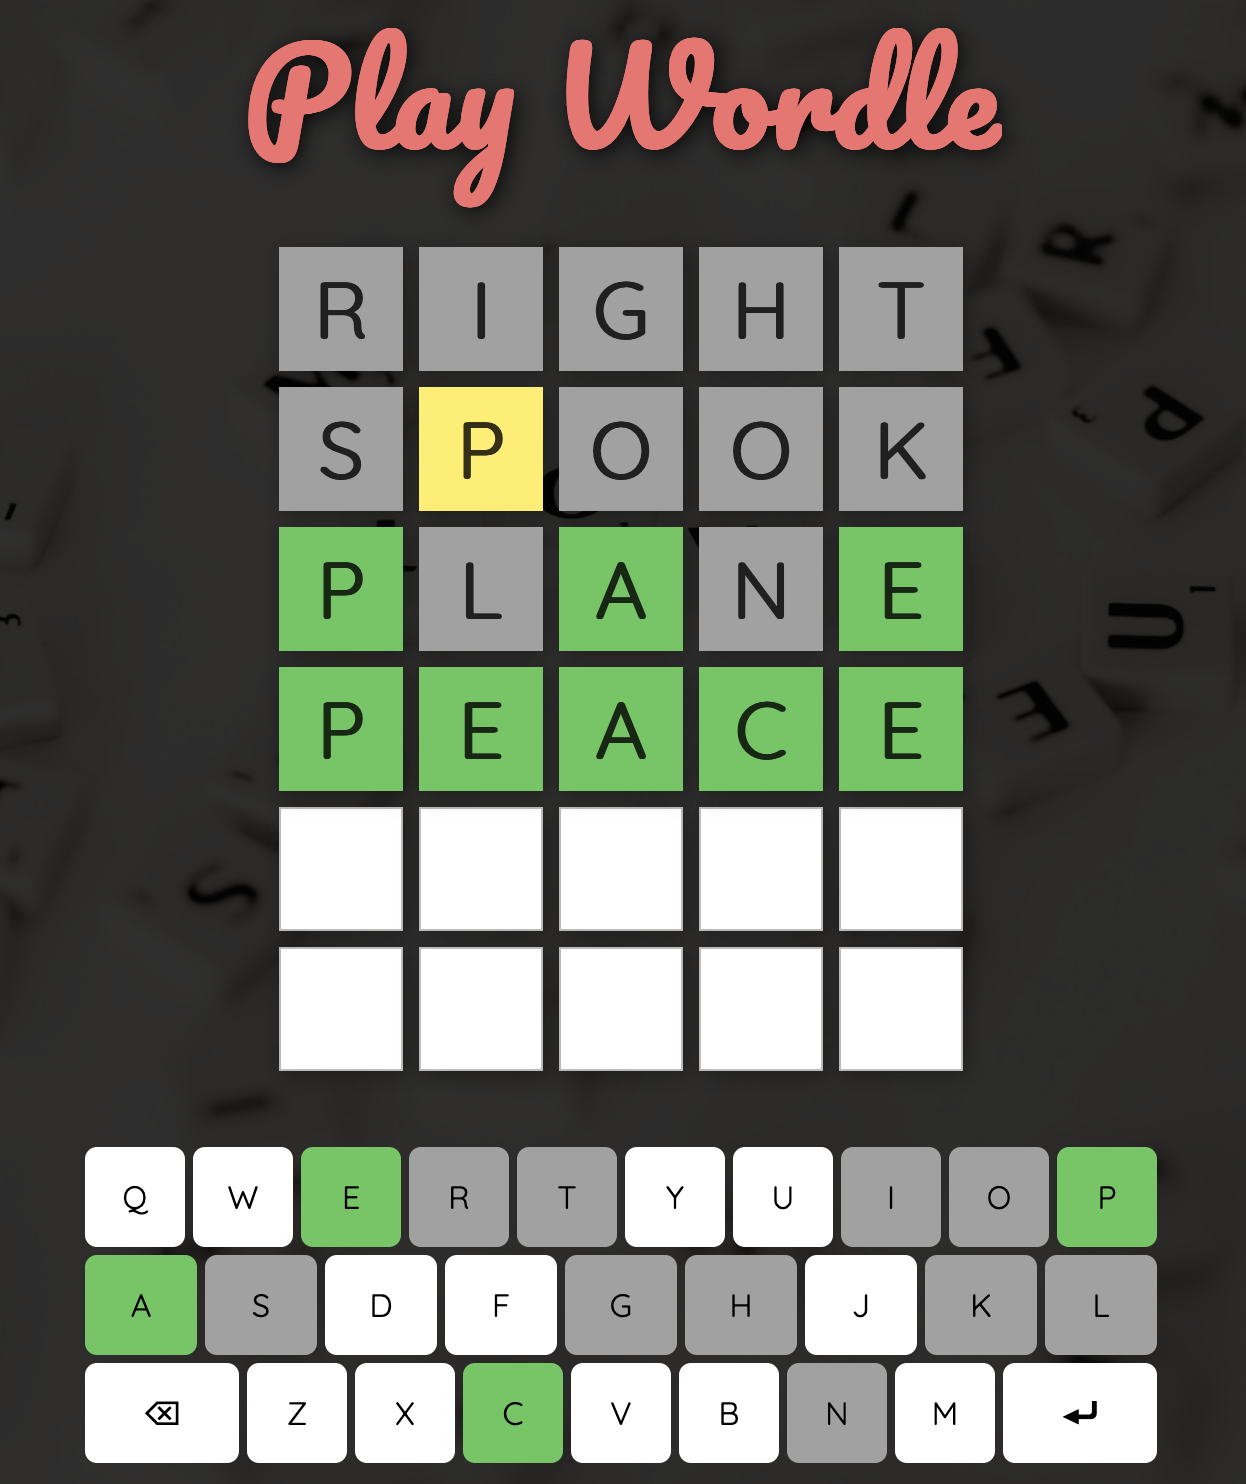
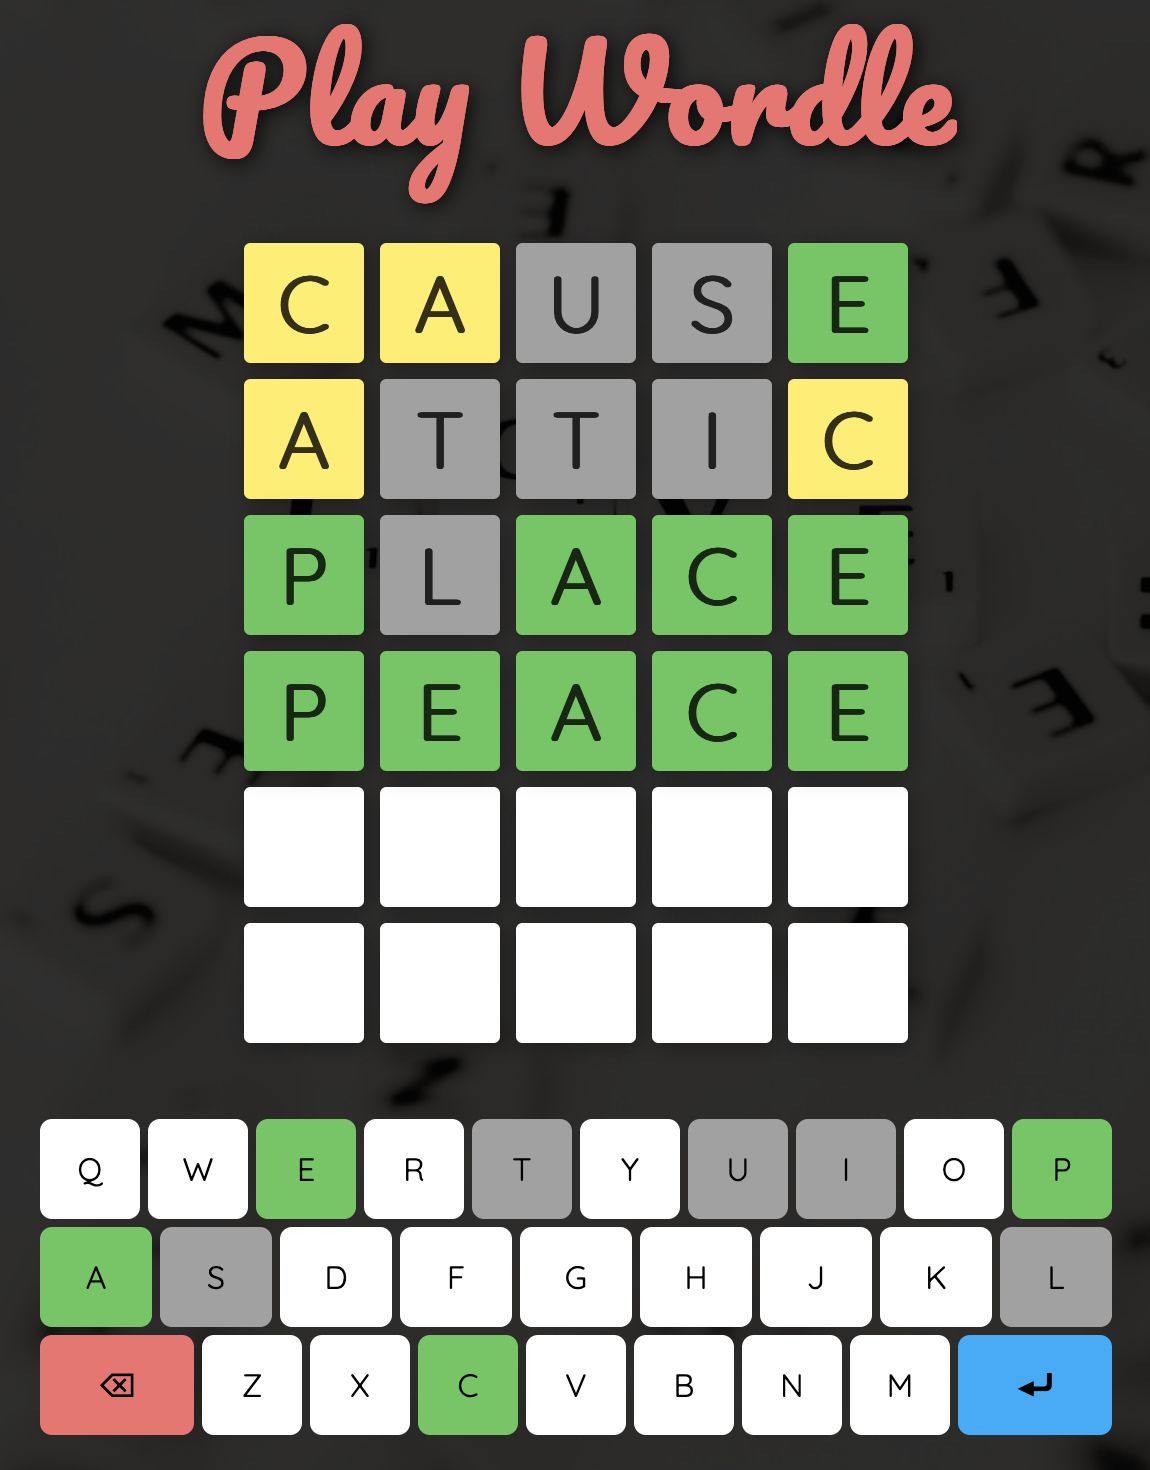
tweaks

diff --git a/components/InfoModal.jsx b/components/InfoModal.jsx
@@ -21,13 +21,23 @@ const InfoModal = ({ isModalOpen, setIsModalOpen }) => {
             <span className="bg-grey">grey</span>.
           </p>
           <p>
-            Green indicates that the letter is in the word and it is in the
-            correct position. Yellow indicates that it's in the word but the
-            position's incorrect. Grey indicates that the letter is not in the
-            word
+            <span className="bg-green">Green</span> indicates that the letter is
+            in the word and it is in the correct position.{" "}
+            <span className="bg-yellow">Yellow</span> indicates that it's in the
+            word but the position's incorrect.{" "}
+            <span className="bg-grey">Grey</span>. indicates that the letter is
+            not in the word.
           </p>
         </div>
         <img src="/assets/rules.png" alt="Wordle Rules" className="rules-img" />
+        <p>The game Wordle was created by Josh Wardle.</p>
+        <p>
+          <strong>Wordle Maker</strong> was developed by{" "}
+          <a href="https://www.scottsdev.net/" className="link" target="_blank">
+            Scott Mitchell
+          </a>{" "}
+          for people to make and share their own Wordles for others to play.
+        </p>
       </div>
     </div>
   );

diff --git a/components/Wordle.jsx b/components/Wordle.jsx
@@ -1,3 +1,4 @@
+import Link from "next/link";
 import { useEffect, useState } from "react";
 import { useWordle } from "../hooks/useWordle";
 import Grid from "./Grid";
@@ -19,11 +20,11 @@ const Wordle = ({ solution }) => {
   useEffect(() => {
     window.addEventListener("keyup", handleKeyup);
     if (isCorrect) {
-      setTimeout(() => setShowModal(true), 2000);
+      setTimeout(() => setShowModal(false), 2000);
       window.removeEventListener("keyup", handleKeyup);
     }
     if (turn > 5) {
-      setTimeout(() => setShowModal(true), 2000);
+      setTimeout(() => setShowModal(false), 2000);
       window.removeEventListener("keyup", handleKeyup);
     }
     return () => window.removeEventListener("keyup", handleKeyup);
@@ -41,6 +42,18 @@ const Wordle = ({ solution }) => {
           setShowModal={setShowModal}
         />
       )}
+      <p>
+        Want to create your own Wordle?{" "}
+        <Link href="/">
+          <a className="link">Let's do it!</a>
+        </Link>
+      </p>
+      <p className="developer">
+        developed by{" "}
+        <a href="https://www.scottsdev.net/" className="link" target="_blank">
+          Scott Mitchell
+        </a>
+      </p>
     </div>
   );
 };

diff --git a/styles/globals.css b/styles/globals.css
@@ -80,6 +80,12 @@ body::before {
   text-shadow: 2px 2px 10px rgba(0, 0, 0, 0.8);
 }
 
+.developer {
+  margin-top: 5rem;
+  font-size: 0.9rem;
+  font-family: 'Quicksand', sans-serif;
+}
+
 .pacifico {
   font-family: 'Pacifico', cursive;
   color: #f56f6f;
@@ -239,7 +245,7 @@ input {
   display: block;
   width: 60px;
   height: 60px;
-  border: 1px solid #bbb;
+  border-radius: 0.2rem;
   background-color: white;
   margin: 4px;
   text-align: center;
@@ -318,11 +324,14 @@ input {
 }
 
 .delete-key {
-  width: 77px !important
+  width: 77px !important;
+  background-color: #f56f6f !important;
 }
 
 .enter-key {
-  width: 77px !important
+  width: 77px !important;
+  background-color: #0cacfc !important;
+
 }
 
 .keypad-row>div:hover {
@@ -638,6 +647,7 @@ input {
 .description {
   font-size: 1.2rem;
   text-align: center;
+  margin-bottom: 2rem;
 }
 
 .close-btn-container {

diff --git a/pages/index.jsx b/pages/index.jsx
@@ -179,6 +179,16 @@ export default function Home({ data }) {
                 </div>
               )}
             </div>
+            <p className="developer">
+              developed by{" "}
+              <a
+                href="https://www.scottsdev.net/"
+                className="link"
+                target="_blank"
+              >
+                Scott Mitchell
+              </a>
+            </p>
           </div>
         </div>
       </main>
